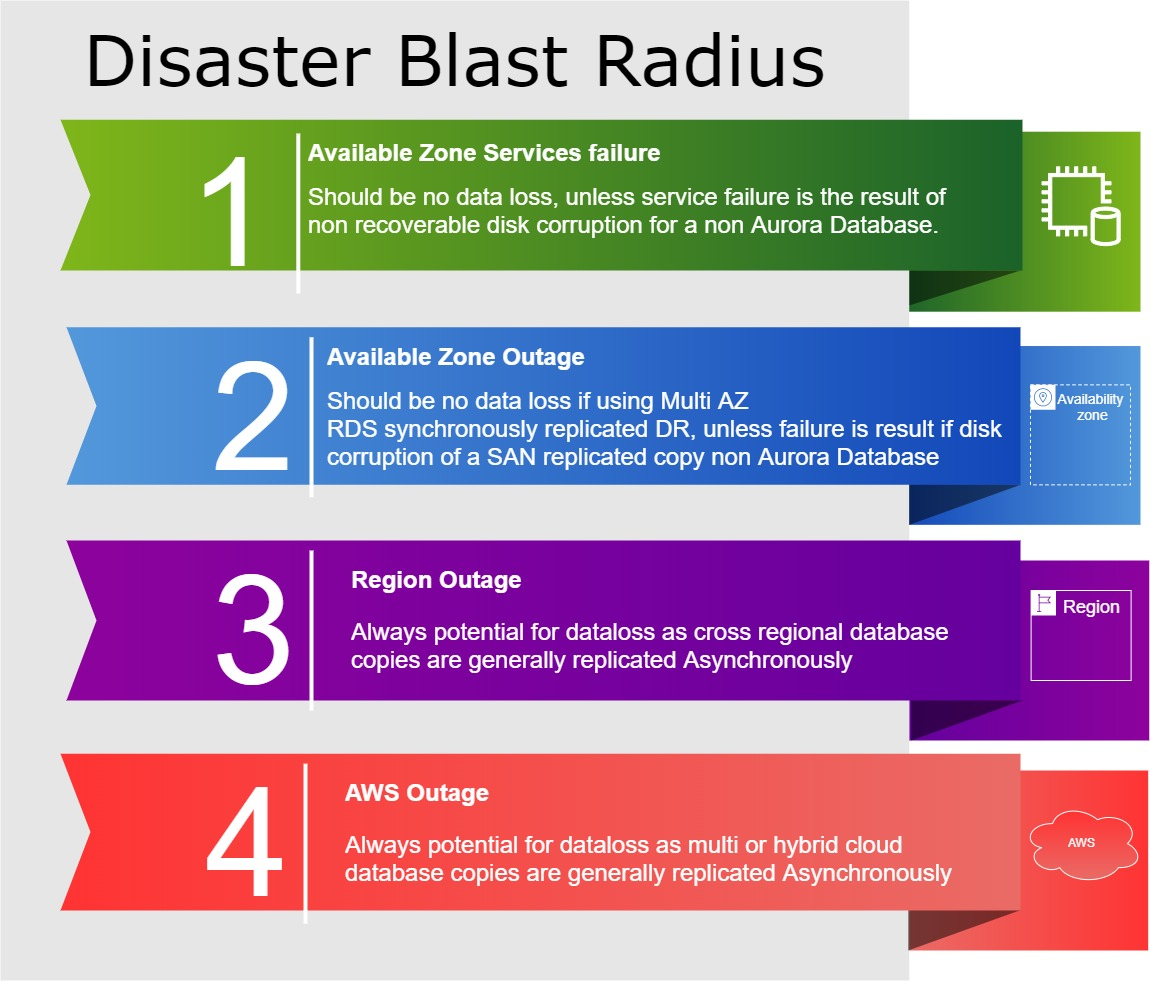
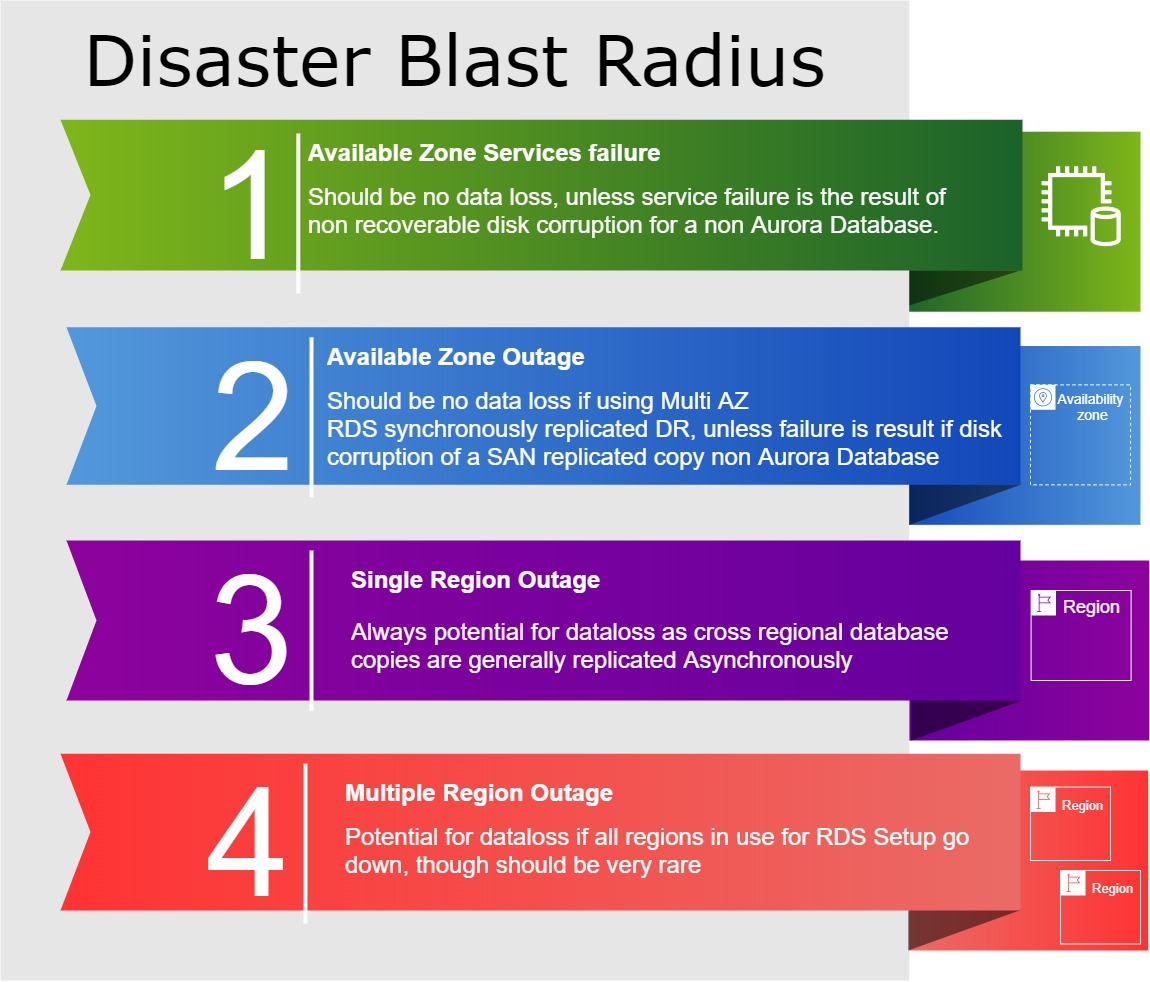
updated based on Amazon feedback v1

diff --git a/posts/zero-dataloss-dr-using-rds/index.md b/posts/zero-dataloss-dr-using-rds/index.md
@@ -27,7 +27,7 @@ Recovery from failure and testing of recovery procedures also forms part of the 
 
 > Your resiliency strategy should also include Disaster Recovery (DR) objectives based on strategies to recover your workload in case of a disaster event.
 
-Amazon RDS disaster recovery data loss scope is at the database level and measureable in time or database system change. By database system change we are referring to the internal mechanism databases use to track change which will also be discussed later in this blog. We recover the database and everything contained within to the same consistent point in time or database system change number.
+Many Amazon architected solutions will use multiple AWS services. For example there could be an EC2 compute instance running a containerised application that connects to an RDS Database. For the purpose of this blog the disaster recovery scope is only looking at the database. We do not consider the other services.
 
 Recovery from a disaster with zero data loss, or ZDLDR, means that once the database is back in service, it will carry on from the point of failure and hold all transactional history up until the point of failure. For instance if we lost an availability zone at 9:00am UTC, for a ZDLDR solution we would want a solution that could reinstate that database service as if it were 09:00am UTC again. Anything less could imply loss of new or changed data.
 
@@ -41,19 +41,19 @@ Amazon RDS supports 5 different database engines, as shown below:
 
 ![Cloud Native vs Cloud Enabled](images/pic1_enabled_vs_native.jpg "Figure 1. Cloud Native vs Cloud Enabled")
 
-These Amazon RDS Databases' engines generally fall into 2 categories
+These Amazon RDS Database engines generally fall into 2 categories
 - Cloud Enabled
 - Cloud Native
 
-Cloud enabled databases run using similar infrastructure and setup as if they were running on premise. In a way they are databases designed for an on-premise environment and tailored to run on the cloud and utilise those great services that AWS provides. Amazon RDS which caters for engines Oracle, SQL Server, Postgres, MySQL, and MariaDB can be considered cloud enabled offerings.
+Cloud enabled databases run using similar infrastructure and setup as if they were running on premise. In a way they are databases designed for an on premise environment and tailored to run on the cloud and utilise those great services that AWS provides. Amazon RDS which caters for engines Oracle, SQL Server, Postgres, MySQL, and MariaDB can be considered cloud enabled offerings.
 
-As depicted below, these databases write to a standard non-clustered EBS volume(s). Disaster recovery can be provided by replication of the physical SAN or the logical database to a second availability zone. Note we can also perform logical replication within the same availability zone as well.
+As depicted below, these databases write to a standard non-clustered EBS volume(s). Disaster recovery can be provided by physical block level replication or logical database replication to a second availability zone. Note we can also perform logical replication within the same availability zone as well.
   
 ![RDS Multi AZ EBS](images/pic2_az_ebs.jpg "Figure 2. RDS Multi AZ EBS")
 
 Cloud native databases are designed from the ground up to utilise cloud features that are generally only available on the cloud. Amazon Aurora Postgres and Amazon Aurora MySQL (both of which are still part of the RDS family) can be considered a hybrid cloud native database offering. Aurora decouples the compute from the storage layer. The storage layer has extra efficiencies and safe guards, and it utilises multiple AZs to enhance high availability. 
 
-As depicted below, Amazon Aurora RDS writes to a clustered proprietary storage volume that spans across all 3 availability zones where 6 copies of the data will be present. The data is striped such that an Aurora database can be stood up for disaster recovery at any time in any availability zone within the same Region with no further replication or overhead. 
+As depicted below, Amazon Aurora RDS writes to a clustered proprietary storage volume that spans across all 3 availability zones where 6 copies of the data will reside into what is referred to as a protection group. The data is grouped such that an Aurora database can be stood up for disaster recovery at any time in any availability zone within the same Region with no further replication or overhead. 
   
 ![RDS Multi AZ Clustered](images/pic2_az_clustered.jpg "Figure 3. RDS Multi AZ Clustered")
   
@@ -73,7 +73,7 @@ Cloud enabled databases capture all changes in logs also known as transaction, b
   
 ![RDS crash recovery](images/pic5_recovery_rds.jpg "Figure 4. RDS crash recovery")
   
-RDS Cloud Native databases, namely Amazon Aurora, use a clustered log structured distributed storage system. This means once a change has occurred in the database, the log records are sent to the storage tier and added to an in-memory queue. The database is then freed from any other overhead regarding management of these records. It falls to the Storage tier to take responsibility for persisting those records to disk and data page updates to reflect the change. As there is no transaction log or WAL as such on the database tier, the crash recovery phase is minimal when recovering from an ungraceful shutdown or crash. Aurora is designed to recover from a crash almost instantaneously without a transaction log. Crash recovery is performed asynchronously so the database is open and available immediately after a crash. This is depicted below in Figure 5. It should also be noted Auroras database working memory area, called a page cache, is also decoupled from the database so it can independently survive a database crash and be reused once the database is back.
+RDS Cloud Native databases, namely Amazon Aurora, uses a decoupled clustered distributed storage system. Once a change has occurred in the database, the log records are sent to the storage tier and persisted to a log called a hot log. The database is then freed from any other overhead regarding management of these records. It falls to the Storage tier to take responsibility for coalescing and persisting those records to disk and data page updates to reflect the change. As there is no transaction log or WAL as such on the database tier, the crash recovery phase is minimal when recovering from an ungraceful shutdown or crash. Aurora is designed to recover from a crash almost instantaneously without a transaction log. Crash recovery is performed asynchronously so the database is open and available immediately after a crash. This is depicted below in Figure 5. It should also be noted Aurora's database working memory area, called a page cache, is also decoupled from the database so it can independently survive a database crash and be reused once the database is back.
   
 ![Aurora crash recovery](images/pic6_recovery_aurora.jpg "Figure 5. Aurora crash recovery")
   
@@ -81,9 +81,9 @@ RDS Cloud Native databases, namely Amazon Aurora, use a clustered log structured
 
 One of the strengths of Amazon RDS is a simple and configurable backup solution, high availability, and disaster recovery options. This provides the capability to reinstate a failed database environment. But there are clear differences in their implementation, usage, and potential for data loss.
 
-The industry standard term for the amount of data loss a system can tolerate is known as the [Recovery Point Objective (RPO)](https://docs.aws.amazon.com/wellarchitected/latest/reliability-pillar/disaster-recovery-dr-objectives.html). This is measured as a unit of time: it could be seconds, hours, or even days. An RPO of 0 would mean that a database could not tolerate any data loss.
+The industry standard term for the amount of data loss a system can tolerate is known as the [Recovery Point Objective (RPO)](https://docs.aws.amazon.com/wellarchitected/latest/reliability-pillar/disaster-recovery-dr-objectives.html). This is measured as a unit of time, it could be seconds, hours, or even days. An RPO of 0 would mean that a database could not tolerate any data loss.
 
-High availability is resilience to failure of individual services such as compute and storage. AWS by nature is highly available ([as long as best practices are followed](https://docs.aws.amazon.com/whitepapers/latest/disaster-recovery-workloads-on-aws/shared-responsibility-model-for-resiliency.html)). If an EC2 Instance fails due to an hardware issue this can be respawned on new hardware. EBS disks are resilient and striped. So we can expect Amazon RDS to be highly available as it's built using this same reliable, fault tolerant infrastructure. As we have discussed earlier, if there is an issue that crashes the database, the database should still restart with zero data loss. If an RDS database is set up to run as Multi AZ, RDS will automatically failover to the disaster recovery site as well under many conditions. Using Multi AZ will provide an RPO of 0 due to synchronous replication.
+High availability is resilience to failure of individual services such as compute and storage. AWS by nature is highly available ([as long as best practices are followed](https://docs.aws.amazon.com/whitepapers/latest/disaster-recovery-workloads-on-aws/shared-responsibility-model-for-resiliency.html)). If an EC2 Instance fails due to a hardware issue this can be respawned on new hardware. EBS disks will have the resilience we have come to expect of modern day hard drives. So we can expect Amazon RDS to be highly available as it's built using this same reliable, fault tolerant infrastructure. As we have discussed earlier, if there is an issue that crashes the database, the database should still restart with zero data loss. If an RDS database is set up to run as Multi AZ, RDS will automatically failover to the disaster recovery site as well under many conditions. Using Multi AZ will provide an RPO of 0 due to synchronous replication.
 
 Backups in Amazon RDS are based on EC2 instance storage level snapshots and for cloud enabled offerings this is coupled with transaction log backups every 5 minutes, all automated when enabled and implicitly written to S3 object bucket storage. The initial snapshot of a database will perform a full storage backup with subsequent snapshots being forever incremental, copying only changed disk blocks for speed and efficiency.
   
@@ -92,34 +92,36 @@ Backups in Amazon RDS are based on EC2 instance storage level snapshots and for 
 | Full Physical                       | One off Initial Backup  |
 | Incremental Physical                | Daily Backup Window     |
 | Cloud Enabled Transactional Logical | Every 5 Minutes         |
-| Cloud Native Transactional Logical  | Continuous              |
+| Cloud Native Transactional Logical  | Every 5 Minutes              |
 
-The hybrid cloud native Amazon Aurora backups are continuous and based on its intelligent storage clustered setup and how data changes are recorded. Though the earliest restore time using these backups for Aurora is also typlically 5 minutes minus the current time. Due to the very high availability of Amazon Aurora storage, the use of backups as a last resort should be a very rare occurance.
+The hybrid cloud native Amazon Aurora backups are continuous, and backup the hot log and changed data pages. Though the earliest restore time using these backups for Aurora is also 5 minutes minus the current time. Due to the very high availability of Amazon Aurora storage, the use of backups as a last resort should be a very rare occurrence.
 
 To restore an RDS Cloud enabled database would need a restore of the full backup + incremental backup(s) + for cloud enabled database the roll forward of the transaction logs. Potentially the RPO using Amazon cloud enabled RDS backups would be 5 minutes at most (the cadence of transaction log backups). This would only be applicable if not using Multi AZ to reinstate the database.
 
-To restore an RDS hybrid cloud native database would need a restore of the full backup + incremental backup(s), there are no transaction logs to restore, we should expect an RPO of 0 under normal circumstances as the data is highly available and replicated, though as noted above backups could be 5 minutes behind, so as long as Aurora is still available that 5 minutes is less of an issue due to the high availability of data across 3 availability zones.
+To restore a RDS hybrid cloud native database Aurora we would need a restore of the full backup + incremental hot log and data page backup(s), there are no transaction logs to restore.
+As stated Aurora backups are every 5 minutes so there could be 5 minutes data loss. But as Aurora is highly available running normally over 3 Availability Zones
+there is less chance that 5 minute backup cadence is an issue or will be prevented due to Aurora storage being unavailable.
   
 ![RDS Backup workflow](images/pic8_backup_workflow.jpg "Figure 6. RDS Backup workflow")
   
-Disaster recovery in Amazon RDS is based on Multi AZ or Multi Region database copies where we have a physically separate database copy located in a different physical location. This database copy could be replicated using SAN or database technologies with the latter protecting against disk corruptions. The replication used between database copies to keep them identical or near identical as possible could use asynchronous, synchronous, semi-synchronous, or synchronous clustered replication depending on the replication technology used and DR setup.
+Disaster recovery in Amazon RDS is based on Multi AZ or Multi Region database copies where we have a physically separate database copy located in a different physical location. This database copy could be replicated using physical block level replication or database technologies with the latter protecting against disk corruptions. The replication used between database copies to keep them identical or near identical as possible could use asynchronous, synchronous, semi-synchronous, or Aurora clustered protection group replication depending on the replication technology used and DR setup.
 
 | Replication Method    | Description                                                                                                                   |
 |-----------------------|-------------------------------------------------------------------------------------------------------------------------------|
 | Asynchronous          | Send changes to a second site but do not wait for them to be applied                                                          |
 | Synchronous           | Send changes to a second site but  wait for them to be applied                                                                |
 | Semi-Synchronous      | Send changes to two sites but  wait for them to be received by at least one of the sites                                        |
-| Synchronous-Clustered | Send changes too clustered disk across 3 AZ's, at least 4 copies of the changes must persist on disk with eventually 6 copies  |
+| Protection Groups | Send data in each protection group to be replicated six times spanning three AZs in the same region  |
   
 ## Logical Replication vs Physical Replication
 
 'How' we replicate RDS databases for DR as described above is generally considered to be either:
  - Synchronous (SYNC) where we wait for data to be committed on both the primary RDS database in its AZ and standby RDS database in a different AZ before continuing.
  - Asynchronous(ASYNC) where we send the data from the primary RDS database in its AZ to the standby RDS database in a different AZ but do not wait for data to be committed.
- - Semi-Synchronous (SEMI-SYNC) which requires 2 replicas to support the primary database, the commit is only considered persisted when 1 of the 2 replicas has confirmed the changes have been received. Note we say received, not applied - so in theory a double outage of both the primary and replica in receipt of change may still have a chance of data loss.
+ - Semi-Synchronous which requires 2 replicas to support the primary database, the commit is only considered persisted when 1 of the 2 replicas has confirmed the changes have been received. Note we say received, not applied - so in theory a double outage of both the primary and replica in receipt of change may still have a chance of data loss. This is also referred to as a Multi AZ DB cluster.
 
 Amazon Aurora also provides a 4th method:
-  - Synchronous Clustered (SYNC-CLUST) where the decoupled storage performs replication with no direct waiting by the compute tier.
+  - Protection Groups where the decoupled storage performs replication with no direct waiting by the compute tier.
 
 These 4 types of replication are depicted below:
 
@@ -127,15 +129,15 @@ These 4 types of replication are depicted below:
   
 'What' we replicate could be either:
 
-- Using a physical DR copy, where the replication is at the SAN Level tracking disk block changes. This type of replication is always synchronous. Within Amazon RDS this is referred to as Multi AZ replication and is only supported using Multi AZ not Multi Region. One of the drawbacks of physical replication is that it will replicate disk corruptions. Persisted disk corruptions should be considered a very rare occurrence, but nevertheless they need to be catered for. As physical replication uses SYNC replication we can assume an RPO of 0 when not dealing with disk corruptions.
+- Using a physical DR copy, where the replication is at the physical Level tracking disk block changes. This type of replication is always synchronous. Within Amazon RDS this is referred to as Multi AZ replication and is only supported using Multi AZ not Multi Region. One of the drawbacks of physical replication is that it will replicate disk corruptions. Persisted disk corruptions should be considered a very rare occurrence, but nevertheless they need to be catered for. As physical replication uses SYNC replication we can assume an RPO of 0 when not dealing with disk corruptions.
 
 - Using a logical DR copy, where the replication is at the database level tracking transactional changes. This can be either synchronous, asynchronous, or semi-synchronous where supported. One of the key advantages of logical replication is that it supports both cross AZ and cross region replication. Logical database copies are referred to as replica copies. For a logical DR copy, disk corruption should not be replicated. This is key point for any ZDLDR solution. If the logical replication is asynchronous, it has the potential to drift (lag) behind the primary site, but this doesn't necessarily mean data loss if site switches are planned or graceful.
 
-- Using a clustered physical copy, where the replication is handled by the intelligent storage tier mirroring multiple copies of data across all available AZs. This is only supported for Amazon Aurora, which uses a clustered decoupled storage layer. Here the physical replication must be replicated at least 4 ways across all available AZs to be considered in sync and eventually 6 ways, using what's called a 4 of 6 Quorum for writes. Due to the always synchronous clustered storage replication of Aurora, we can assume an RPO of 0. We should note that Amazon Aurora clustered replication is only supported within the same region, though cross regions replication is supported asynchronously. Disk corruptions present on Amazon Aurora will selfheal from one of the healthy copies of the data, and there will be a minimum of 4 copies and eventually 6, so this is very effective against disk corruption. 
+- Using Amazon Aurora storage cluster, where the replication is handled by the intelligent storage tier mirroring multiple copies of data across protection groups and all available AZs. Here the physical replication must be replicated at least 4 ways across all available AZs to be considered updated and eventually 6 ways, using what's called a 4 of 6 Quorum for writes. Due to the always synchronous storage replication of Aurora, we can assume an RPO of 0. We should note that Amazon Aurora storage replication is only supported within the same region, though cross regions replication is supported asynchronously. Disk corruptions present on Amazon Aurora will self heal from one of the healthy copies of the data, and there will be a minimum of 4 copies and eventually 6, so this is very effective against disk corruption. 
 
 ## RDS Replicas
 
-A replica in Amazon RDS or Amazon Aurora represents a database that also has the potential to be used as an additional read only copy of the live database while still being continually updated with all changes. Using Amazon RDS Oracle, there is an extra license fee to provision a read-only replica known as an Active Dataguard License. But Amazon RDS Oracle also has the ability to have a replica in recovery mode only which is not accessible for read access. When the RDS Oracle Replica is in recovery mode only the Active Dataguard License in not required. Amazon Aurora replicas are based on the decoupled clustered storage that is automatically replicated across all AZs, but the replication thereafter is considered asynchronous as the replicas are kept updated with native database replication. For disaster recovery, though, Aurora would rely on its decoupled storage for an RPO of 0. Furthermore, for Amazon Aurora we don't even need to stand up a replica as the potential to create one is still there at any time as the data is clustered across all available AZs to facilitate that.
+A replica in Amazon RDS or Amazon Aurora represents a database that also has the potential to be used as an additional read only copy of the live database while still being continually updated with all changes. Using Amazon RDS Oracle, there is an extra license fee to provision a read-only replica known as an Active Dataguard (ADG) License. ADG also provides additional self repair capabilities for block corruption. Though Amazon RDS Oracle also has the ability to have a replica in recovery mode only which is not accessible for read access. When the RDS Oracle Replica is in recovery mode only the Active Dataguard License in not required but additionally does not provide the self repair of corrupt blocks. Amazon Aurora replicas are based on the decoupled storage that is automatically replicated across all AZs, but the replication thereafter is considered asynchronous as the replicas are kept updated with native database replication. For disaster recovery, though, Aurora would rely on its decoupled storage for an RPO of 0. Furthermore, for Amazon Aurora we don't even need to stand up a replica as the potential to create one is still there at any time as the data is clustered across all available AZs to facilitate that.
 
 Logical replication can be:
 - Asynchronous for cloud enabled RDS replica's RDS Oracle, RDS Postgres, RDS MySQL and RDS MariaDB.
@@ -147,7 +149,7 @@ Logical replication can be:
 
 We can see below which database engines support SYNC and SEMISYNC replication so therefore potentially an RPO 0 depending on the replication type. Note if using Oracle RDS Custom we could create a similar setup to emulate SEMI-SYNC if needed.
 
-| Database Engine              | Storage Sub System | Multi AZ SAN Physical Replication Support (SYNC) | Multi AZ DB Replica Logical Replication Support (SYNC) | Multi AZ DB Replica Logical Replication Support (SEMI-SYNC)  |
+| Database Engine              | Storage Sub System | Multi AZ Physical Block Replication Support (SYNC) | Multi AZ DB Replica Logical Replication Support (SYNC) | Multi AZ DB Replica Logical Replication Support (SEMI-SYNC)  |
 |------------------------------|--------------------|--------------------------------------------------|--------------------------------------------------------|--------------------------------------------------------------|
 | Amazon Aurora MySQL          | Multi AZ Clustered | Implicit                                         | No                                                    | No                                                           |
 | Amazon Aurora Postgres       | Multi AZ Clustered | Implicit                                         | No                                                    | No                                                           |
@@ -165,7 +167,10 @@ We should also note that logical and physical DR databases are not mutually excl
 
 ## RDS Custom for Oracle and SQLServer
 
-Amazon RDS provides a lower level offering called RDS Custom for database engines Oracle and SQLServer. With this offering, we gain access to the underlying compute servers o/s. Being able to access the compute also allows us to make customisations to the RDS Engine and its configuration not possible under normal RDS. With regard to disaster recovery the ability to configure synchronous logical replication for Oracle is relevant for us as a ZDLDR Solution. RDS Custom also gives SQLServer the ability for physical synchronous Multi AZ configurations which is not possible under standard RDS, but this won't protect against disk corruptions.
+Amazon RDS provides a lower level offering called RDS Custom for database engines Oracle and SQL Server. With this offering, we gain access to the underlying compute server's o/s. Being able to access the compute also allows us to make customisations to the RDS Engine and its configuration not possible under normal RDS. With regard to disaster recovery the ability to configure synchronous logical replication for Oracle is relevant for us as a ZDLDR Solution. RDS Custom also gives SQLServer the ability for physical synchronous Multi AZ configurations which is not possible under standard RDS, but this won't protect against disk corruptions.
+
+## AWS RDS Outposts
+Amazon allows customers to  run Amazon RDS in their own data centres using what is called outposts. The Outposts are Amazons infrastructure running within the customers data centre. Using Amazon Outposts we can run RDS engines SQL server, MySQL and Postgres. To achieve disaster recovery a customer can install more than one outpost and configure multi AZ setup, but this only supported for RDS Postgres and MySQL not SQL Server.
 
 ## Disaster Blast Radius
 
@@ -181,15 +186,17 @@ Not all failures require disaster recovery on Amazon RDS. For an RDS database th
 
 Let's refer to this as Level 1. A failure at Level 1 should not require disaster recovery in general, but may invoke it for a faster recovery if using a Multi AZ setup. There should be zero data loss as each of these services is generally self-healing or highly redundant. 
 
-EBS volumes where our database s/w and data is stored is redundant and highly available, but there is an edge case where it could be susceptible to disk corruption. With modern disk drives, implicit integrity checks by the database software, operating systems, and actual drives themselves, this should be considered very rare, but still a possibility. The ability to deal with disk corruption will form a crucial role in achieving a ZDLDR solution.
+EBS volumes where our database software and data is stored is redundant and highly available, but there is an edge case where it could be susceptible to disk corruption. With modern disk drives, implicit integrity checks by the database software, operating systems, and actual drives themselves, this should be considered very rare, but still a possibility. The ability to deal with disk corruption will form a crucial role in achieving a ZDLDR solution.
 
 In general a Level 1 failure should not result in potential data loss unless there is a disk corruption, but even disk corruption to some degree can be minimised depending on how Multi AZ copies or replicas are created.
 
-The next level of failure would be an entire availability zone failure. Let's call this a failure at Level 2. A Level 2 failure would need a disaster recovery site to continue the operation of the database service. If using a Multi AZ database setup, then there should be no data loss for synchronously, semi-synchronously or synchronously-clustered replicated databases. For asynchronously replicated database there could be some lag and potential data loss. For semi-synchronously replicated databases there should be zero dataloss if no further impacting issue on the site that has confirmed receipt of the changes. If there is no multi AZ RDS database, then it's also possible to use backups to reinstate the database service, but these could be up to 5 minutes behind the lost site.
+The next level of failure would be an entire availability zone failure. Let's call this a failure at Level 2. A Level 2 failure would need a disaster recovery site to continue the operation of the database service. If using a Multi AZ database setup, then there should be no data loss for synchronously, semi-synchronously or aurora storage replicated databases. For asynchronously replicated database there could be some lag and potential data loss. For semi-synchronously replicated databases there should be zero data loss if no further impacting issue on the site that has confirmed receipt of the changes. If there is no multi AZ RDS database, then it's also possible to use backups to reinstate the database service, but these could be up to 5 minutes behind the lost site.
 
-The next level of failure would be loss of an entire region(s). Let's call this a failure at Level 3. A Level 3 failure always has the potential for data loss, as database replication across regions will most likely be asynchronous due to the distances data must travel to be replicated. Multi region backups will lag even further behind the live Region as well. We could possibly assume an RPO of minutes for cross region DR, though this is dependent on speed, distance, and database load activity.
+The next level of failure would be loss of an entire region. Let's call this a failure at Level 3. A Level 3 failure always has the potential for data loss, as database replication across regions will most likely be asynchronous due to the distances data must travel to be replicated. Multi region backups will lag even further behind the live Region as well. We could possibly assume an RPO of minutes for cross region DR using asynchronous replication, though this is dependent on speed, distance, and database load activity.
 
-The last level of failure would be an entire AWS outage of all regions. Let's call this a Level 4 failure. This should be extremely rare but can be mitigated by a hybrid or multi cloud DR strategy. There would also be a higher likelihood of data loss due to such replication being asynchronous. Also for Amazon RDS this would only be supported using a RDS Custom Engine as it would require low level customisations for such DR that only the Custom offering of RDS supports. Regular RDS could take manual backups and push these to a target environment as well, but the RPO could be very high for that.
+The last level of failure would be a multiple region failure. Let's call this a Level 4 failure. This should be extremely rare but can also be mitigated by replicating RDS to additional regions or a hybrid or multi cloud DR strategy as well. Amazon RDS Custom Engine could allow the low level customisations for multi cloud DR. Regular RDS could take manual backups and push these to a target environment as well, but the RPO could be very high for that.
+
+
   
 ![Disaster Blast Radius](images/pic12_disaster_blast_radius.jpg "Figure 8. Disaster Blast Radius")
   
@@ -205,7 +212,7 @@ We can only achieve ZDLDR at level 1 single AZ or level 2. Multi AZ events as th
 
 Putting all of this together, we can derive which RDS configuration will support ZDLDR as detailed in the table below.
 
-| Engine                          | Zero Dataloss Disaster Recovery                                                                                                 |
+| Engine                          | Zero Data loss Disaster Recovery                                                                                                 |
 |---------------------------------|---------------------------------------------------------------------------------------------------------------------------------|
 | Amazon RDS MySQL                | Possible to achieve ZDLDR using Semi-Synchronous Replication of a Logical DR t o 2 sites                                         |
 | Amazon RDS MariaDB              | Not Possible as Logical Synchronous Replication is not Supported Physical replication could be susceptible  to Disk Corruption  |
@@ -222,13 +229,20 @@ Putting all of this together, we can derive which RDS configuration will support
 
 ## Architecting for Near Zero Data Loss
 
-The purpose of this article is architecting for ZDLDR, but we can reduce the likelihood of data loss for those engines that do not support a logical synchronous or semi-synchronous replica or run on Amazon Aurora. Using a Multi AZ with one standby replica would create a defence against disaster with the Multi AZ SAN copy being used in the majority of DR scenarios. The replica would exist to support edge case disk corruption with the acceptance it will run ASYNC, so could lag behind. Even so, it would provide extra recoverability options and also potentially provide the opportunity to offload reporting if used as a read replica. Databases using this setup would have the protection of 3 AZs, providing further protection against disaster. This is similar to semi-synchronous replication supported by RDS MySQL and RDS Postgres, but you have the benefit of both types of DR SAN and DB replication supporting your HA. Though the SAN replicated site won't protect against disk corruption, it could be used to reinstate data that is not corrupt into the DB replicated database using database native export tools.
+The purpose of this article is architecting for ZDLDR, but we can reduce the likelihood of data loss for those engines that do not this. Using a Multi AZ with an additional standby replica could provide some protection from disk corruptions. The Multi AZ would be used in the majority of DR scenarios. The replica would exist to support edge case disk corruption with the acceptance it will run asynchronously, so could lag behind. The replica could also provide extra recoverability options using database native export tools to recover individual objects. This setup would also have the protection of 3 AZs, providing further protection against disaster.
   
 ![3 way AZ RDS Replication](images/pic14_3_way_az.jpg "Figure 9. 3 way AZ RDS Replication")
   
 ## Summary
 
-Architecting for Zero Data Loss is certainly a possibility utilising Amazon RDS, due to edge case disk corruption only logical synchronous replicas, semi-synchronous replicas, or Amazon Aurora can be considered to cater for this. The cloud enabled enterprise class database giants that are Oracle and SQL Server both support this using one extra DR Site. RDS MySQL and RDS Postgres also support ZDLDR under most circumstances, but they require 2 replica DR Sites. But what truly stands out is the hybrid cloud native offering from Amazon Aurora, which is out of the box ready to support zero data loss disaster recovery from day 0 across 3 sites. If a ZDLDR solution can't be used, then we can achieve a near ZDLDR solution utilising Multi AZ replication with an additional replica across all 3 AZs.
+Architecting for Zero Data Loss is possible utilising Amazon RDS, due to edge case disk corruption only certain configurations and engines allow this.
+The solution to architecting for ZDLDR is the use of database replica's which support synchronous, semi-synchronous or Amazon Aurora storage replication.
+
+RDS Oracle (Custom) and SQL server only requires one additional site to setup a synchronous replica. RDS Postgres and RDS MySQL require 2 additional sites for a synchronous replica. While Amazon Aurora replication is spread across all 3 AZ's by design.
+
+If using Active Dataguard for a RDS Oracle read only replica, there are also automated block corruption repairs. Amazon Aurora also provides self healing of disk corruption from healthy copies.
+
+If a ZDLDR solution can't be used, then we can achieve a near ZDLDR solution utilising Multi AZ an additional replica across all 3 AZs.
 
 ## Further Reading and References
 
